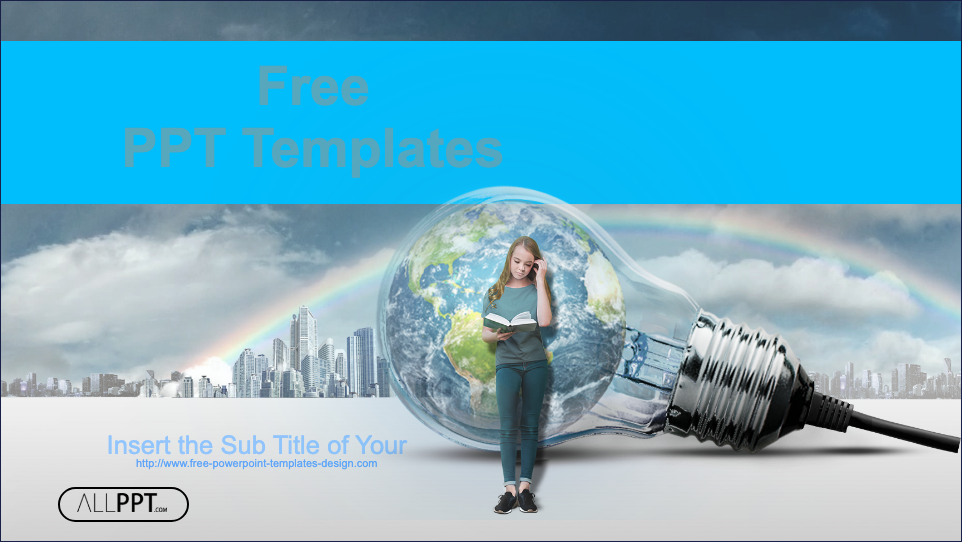
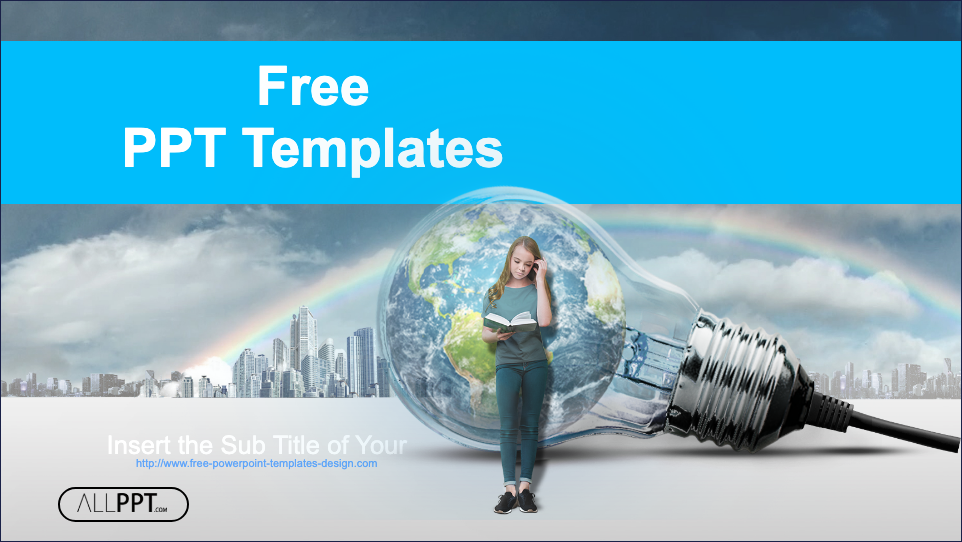
Align PPT cover-slide color overrides with their archetypes
The latest image-driven iteration showed that some late-stage inline color
overrides were still fighting the intended archetype styles on cover slides.
This stage resolves that conflict by making the title/subtitle color logic follow
badge, yellow, and dark-hero archetypes more explicitly, then refreshes the
screenshot artifacts so the sample report reflects the corrected hierarchy.

Constraint: The paired PNG corpus remains the regression oracle, so cover-slide color and hierarchy tweaks must be verified through regenerated screenshot artifacts
Constraint: Archetype-specific overrides must remain narrow enough not to disturb the already-stable non-cover slides
Rejected: Let later generic overrides keep clobbering the archetype styles | it produced confusing cover-slide color regressions
Rejected: Defer artifact refresh until a larger batch of hero-slide changes lands | it would hide whether this focused correction actually helped
Confidence: medium
Scope-risk: narrow
Reversibility: clean
Directive: When cover-slide behavior depends on archetype logic, keep the archetype overrides authoritative and avoid generic post-processing from undoing them
Tested: npm run build --workspace @ooxml/example-basic; npm run quality:ppt-sample-screenshots; score snapshot avg 84.34 / min 76.78 / max 90.18
Not-tested: Full repo verification suite and final LLM-vision closure on the remaining hero slides

Changed region(s): [[0.1247, 0.2362, 0.5301, 0.3247], [0.0936, 0.797, 0.4366, 0.8561], [0.2495, 0.1181, 0.4054, 0.2066]]

diff --git a/examples/basic/src/main.ts b/examples/basic/src/main.ts
@@ -862,10 +862,10 @@ function enhancePresentationPreview(): void {
           content.style.color = '#374151';
         }
       } else if (shape.classList.contains('kind-title') && content) {
-        content.style.color = '#57A7BD';
+        content.style.color = circleBadgeShape ? '#57A7BD' : darkBackground ? '#FFFFFF' : '#1e293b';
       }
-      if (shape.classList.contains('kind-subtitle') && content) {
-        content.style.color = darkBackground ? '#93c5fd' : '#57A7BD';
+      if (shape.classList.contains('kind-subtitle') && content && !yellowTheme) {
+        content.style.color = circleBadgeShape ? '#57A7BD' : darkBackground ? '#FFFFFF' : '#57A7BD';
       }
       continue;
     }
